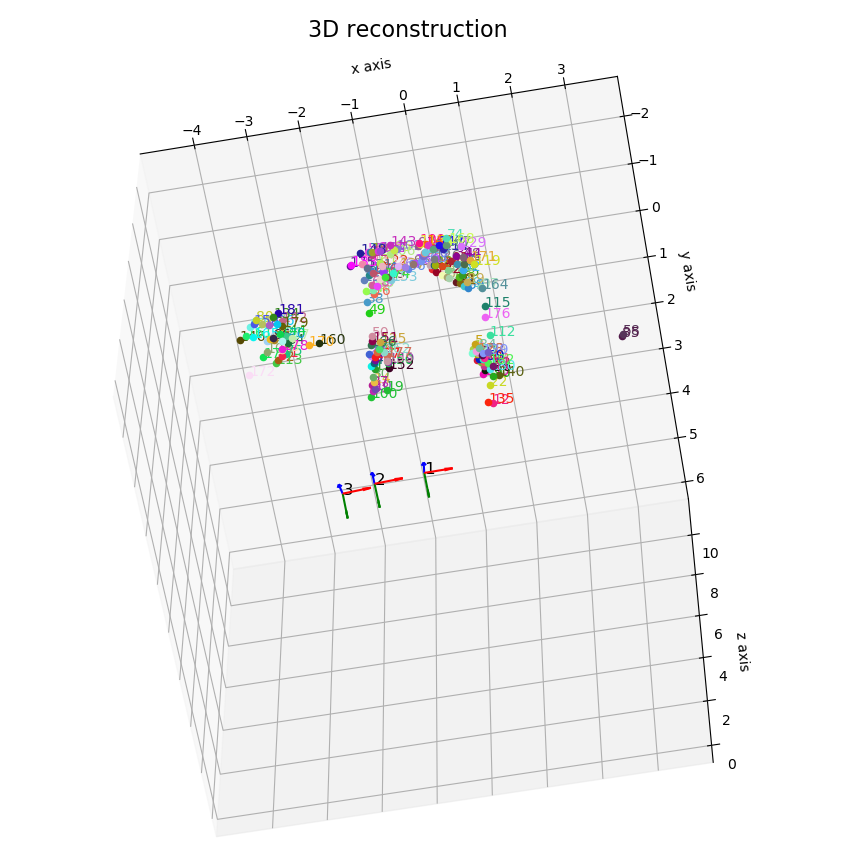
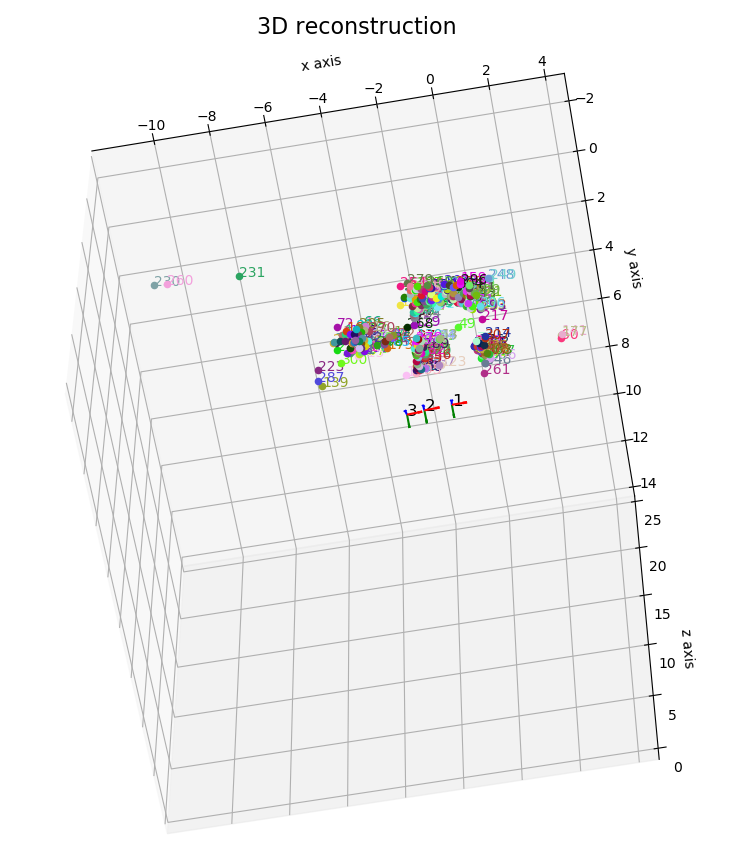
TermProject fix bugs in custom methods

diff --git a/TermProject/utils/m_methods.py b/TermProject/utils/m_methods.py
@@ -68,10 +68,7 @@ def m_ransac(fit_model, validate_model, X, num_samples, max_iter = -1, thresh = 
         all_indices = np.arange(X.shape[0])
         np.random.shuffle(all_indices)
      
-        indices_1 = all_indices[:num_samples]
-        indices_2 = all_indices[num_samples:]
-     
-        sample_points = X[indices_1,:]
+        sample_points = X[all_indices[:num_samples],:]
      
         # fit a model for sample points
         model = fit_model(sample_points)
@@ -81,8 +78,8 @@ def m_ransac(fit_model, validate_model, X, num_samples, max_iter = -1, thresh = 
      
         # compute error of the model on the whole point cloud   
         dist = validate_model(model, X)
-        mask = np.zeros(len(X))
-        mask[np.abs(dist) < thresh] = 1
+        mask = np.zeros(len(X)).astype('uint8') 
+        mask[np.abs(dist) <= thresh] = 1
 
         # cache the best model
         if np.count_nonzero(mask) / len(X) > best_ratio:
@@ -124,7 +121,7 @@ def eight_point_algorithm(pts1, pts2):
         pts1[:,2]*pts2[:,0], pts1[:,2]*pts2[:,1], pts1[:,2]*pts2[:,2] ]).T
 
     # compute linear least square solution
-    __, S, VT = np.linalg.svd(A)
+    __, __, VT = np.linalg.svd(A)
     # solution can be obtained from the vector corresponds to the minimum singular value
     F = VT[-1].reshape(3,3)
         
@@ -157,19 +154,20 @@ def find_fundamental_matrix(points):
     # after the transformation each set will have the mass center at the coordinate origin
     # and the average distance from the origin will be ~sqrt(2).
     mean1 = np.mean(pts1[:,:2], axis = 0)
-    S1 = np.sqrt(2) / np.std(pts1[:,:2])
+    S1 = np.sqrt(2) / np.std(pts1[:,:2], axis = 0).sum()
     T1 = np.array([[S1,0,-S1*mean1[0]], [0,S1,-S1*mean1[1]], [0,0,1]])
     pts1 = np.dot(T1,pts1.T).T
     
     mean2 = np.mean(pts2[:,:2], axis = 0)
-    S2 = np.sqrt(2) / np.std(pts2[:,:2])
+    S2 = np.sqrt(2) / np.std(pts2[:,:2], axis = 0).sum()
     T2 = np.array([[S2,0,-S2*mean2[0]], [0,S2,-S2*mean2[1]], [0,0,1]])
     pts2 = np.dot(T2,pts2.T).T
 
     F = eight_point_algorithm(pts1, pts2)
 
     # reverse normalization
-    return np.dot(np.dot(T1.T, F), T2)
+    # return np.dot(np.dot(T2.T, F), T1)
+    return cv2.findFundamentalMat(points[:,:2], points[:,2:], cv2.FM_8POINT)[0]
 
 
 def compute_fundamental_matrix_error(mat, points):
@@ -198,7 +196,7 @@ def compute_fundamental_matrix_error(mat, points):
     d2 = (pts2.T * m2).sum(axis = 0)
     err2 = d2**2 * s2
 
-    m1 = np.dot(mat, pts2.T)
+    m1 = np.dot(mat.T, pts2.T)
     s1 = 1 / (m1[0]**2 + m1[1]**2)
     d1 = (pts1.T * m1).sum(axis = 0)
     err1 = d1**2 * s1
@@ -206,7 +204,7 @@ def compute_fundamental_matrix_error(mat, points):
     return np.where(err1 > err2, err1, err2)
 
 
-def m_findFundamentalMat(pts1, pts2, method, thresh = 10000.0, ratio_of_inliers = 0.99):
+def m_findFundamentalMat(pts1, pts2, method, thresh = 1.0, ratio_of_inliers = 0.99):
     """Commpute the fundamental matrix using the 8-point algorithm or RANSAC + 8-point algorithm.
     Parameters
     ----------
@@ -233,7 +231,6 @@ def m_findFundamentalMat(pts1, pts2, method, thresh = 10000.0, ratio_of_inliers 
     """
 
     st0 = np.random.get_state()
-
     # RANSAC + 8-Point
     if method == cv2.FM_8POINT + cv2.RANSAC or method == cv2.RANSAC:
         np.random.seed(0)
@@ -244,7 +241,7 @@ def m_findFundamentalMat(pts1, pts2, method, thresh = 10000.0, ratio_of_inliers 
         np.random.seed(0)
         __, F, __ = m_ransac(find_fundamental_matrix, compute_fundamental_matrix_error, 
             np.hstack([pts1, pts2]), num_samples = len(pts1), max_iter = 1)   
-        mask = np.ones(len(pts1))    
+        mask = np.ones(len(pts1)).astype('uint8')   
     else:
         raise ValueError("We only support 8-point algorithm and RANSAC.") 
 

diff --git a/TermProject/utils/feature.py b/TermProject/utils/feature.py
@@ -20,6 +20,8 @@ def match_keypoints_between_images(img1, img2, output_path = None, inlier_points
     flann = cv2.FlannBasedMatcher(index_params, search_params)
 
     good = []
+    pts1 = []
+    pts2 = []
 
     # find the keypoints and descriptors with SIFT
     sift = cv2.xfeatures2d.SIFT_create()
@@ -31,6 +33,8 @@ def match_keypoints_between_images(img1, img2, output_path = None, inlier_points
     for i,(m,n) in enumerate(matches):
         if m.distance < 0.7*n.distance:
             good.append(m)
+            pts1.append(kp1[m.queryIdx].pt)
+            pts2.append(kp2[m.trainIdx].pt)
 
     # find the keypoints and descriptors with SURF
     surf = cv2.xfeatures2d.SURF_create()
@@ -42,17 +46,19 @@ def match_keypoints_between_images(img1, img2, output_path = None, inlier_points
     for i,(m,n) in enumerate(matches):
         if m.distance < 0.7*n.distance:
             good.append(m)
+            pts1.append(kp1[m.queryIdx].pt)
+            pts2.append(kp2[m.trainIdx].pt)
 
-    pts1 = np.asarray([kp1[m.queryIdx].pt for m in good]).astype('float64')
-    pts2 = np.asarray([kp2[m.trainIdx].pt for m in good]).astype('float64')
+    pts1 = np.array(pts1).astype('float64')
+    pts2 = np.array(pts2).astype('float64')
 
-    # Constrain matches to fit homography
-    __, mask = cv2.findHomography(pts1, pts2, cv2.RANSAC, 10.0)
-    mask = mask.ravel()
+    # # Constrain matches to fit homography
+    # __, mask = cv2.findHomography(pts1, pts2, cv2.RANSAC, 10.0)
+    # mask = mask.ravel()
 
-    # We select only inlier points
-    pts1 = pts1[mask == 1]
-    pts2 = pts2[mask == 1]  
+    # # We select only inlier points
+    # pts1 = pts1[mask == 1]
+    # pts2 = pts2[mask == 1]  
 
     if output_path is not None:
         if not os.path.exists(output_path):

diff --git a/TermProject/main.py b/TermProject/main.py
@@ -48,7 +48,7 @@ assert len(args.resolution) == 2
 findFundamentalMat = lambda pts1, pts2, method : cv2.findFundamentalMat(pts1, pts2, method, 1.0, 0.99)
 solvePnPRansac = lambda objectPoints, imagePoints, cameraMatrix, distCoeffs : cv2.solvePnPRansac(objectPoints, imagePoints, cameraMatrix, distCoeffs)
 if args.custom:
-    findFundamentalMat = lambda pts1, pts2, method : m_methods.m_findFundamentalMat(pts1, pts2, method, 10000.0, 0.99)
+    findFundamentalMat = lambda pts1, pts2, method : m_methods.m_findFundamentalMat(pts1, pts2, method, 1.0, 0.99)
     # solvePnPRansac = lambda objectPoints, imagePoints, cameraMatrix, distCoeffs : m_methods.m_solvePnP(objectPoints, imagePoints, cameraMatrix, distCoeffs)
 
 # Define all paths
@@ -111,7 +111,7 @@ def main():
 
     '''------------------------ Key Points Matching ------------------------------------------------------'''
     print('\n'+'-'*50)
-    print('Match key points between two images via SIFT..')
+    print('Match key points between two images via SIFT and SURF..')
 
     print('Match image 1 and image 2..')
     pts12, pts21 = feature.match_keypoints_between_images(img1, img2, 

diff --git a/TermProject/utils/structure.py b/TermProject/utils/structure.py
@@ -126,7 +126,7 @@ def find_common_keypoints(pts1, pts2):
 
     mask = -np.ones((len(pts2))).astype('int')
     for i, row in enumerate(pts2, 1):
-        idx = np.where((pts1 == row).all(1))[0]
+        idx = np.where((np.abs(pts1 - row) < 1e-2).all(1))[0]
         if idx.size:
             mask[i - 1] = idx[0]
     return mask
